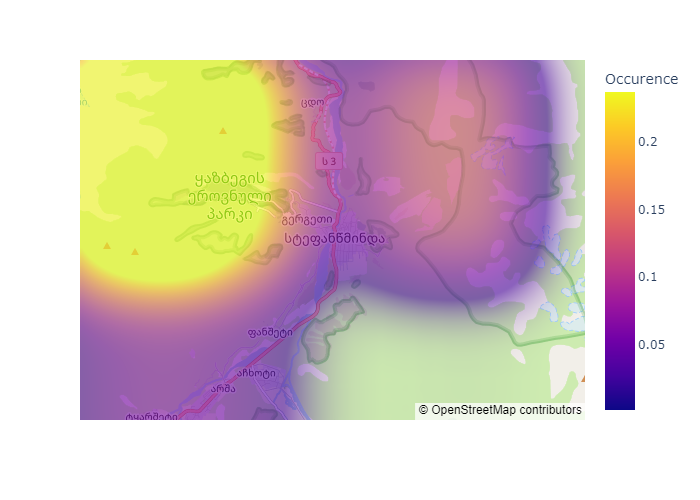
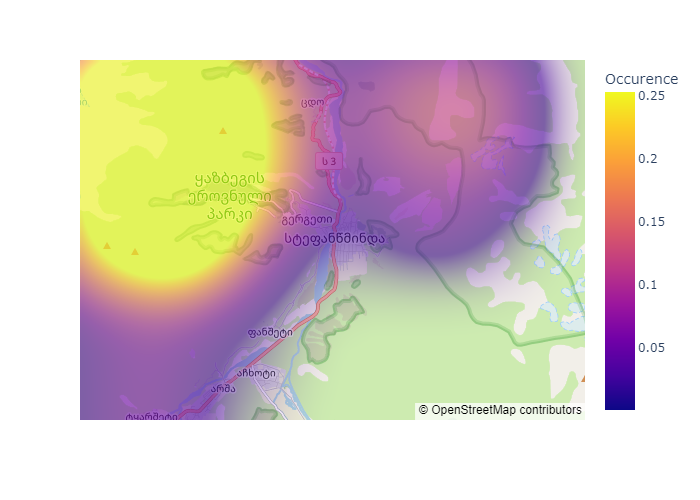
Fix modelling lat error (only minor change to res)

diff --git a/model_occurence.py b/model_occurence.py
@@ -15,33 +15,6 @@ import utils
 
 RANDOM_STATE = 0
 
-# List of species we want a map for
-SPECIES = utils.get_analysis_species()
-
-# Load bird sightings
-df = utils.load_ebird_data(filter=True, region='GE-MM')
-
-# Group by checklist and get main stats
-dfg = df.groupby('SAMPLING EVENT IDENTIFIER')[['LATITUDE', 'LONGITUDE', 'OBSERVATION DATE',
-                                               'TIME OBSERVATIONS STARTED', 'OBSERVER ID',
-                                               'PROTOCOL TYPE', 'PROTOCOL CODE', 'DURATION MINUTES',
-                                               'EFFORT DISTANCE KM', 'NUMBER OBSERVERS',
-                                               'ALL SPECIES REPORTED']].min().reset_index()
-
-# Add column for whether caucasian birds are in the checklist
-for bird in SPECIES:
-    dfg[bird] = dfg['SAMPLING EVENT IDENTIFIER'].apply(
-        lambda x: df.loc[(df['SCIENTIFIC NAME'] == bird) & (df['SAMPLING EVENT IDENTIFIER'] == x)].shape[0]
-    )
-
-# Extra calculated features
-dfg['MONTH'] = dfg['OBSERVATION DATE'].apply(lambda x: int(x[5:7]))
-dfg['HOUR'] = dfg['TIME OBSERVATIONS STARTED'].apply(lambda x: int(x[:2]))
-dfg['KMPH'] = dfg['EFFORT DISTANCE KM'] * 60 / dfg['DURATION MINUTES']
-
-# Round latitude and longitude to 4 decimal places
-dfg['LATITUDE'] = dfg['LATITUDE'].round(4)
-dfg['LONGITUDE'] = dfg['LONGITUDE'].round(4)
 
 # Obtains elevation via API call for entire DataFrame
 def request_elevation_dataframe(df):
@@ -64,55 +37,90 @@ def request_elevation_dataframe(df):
             lat = row['location']['lat']
             lon = row['location']['lng']
             elevation = row['elevation']
-            df.loc[(dfg['LATITUDE']==lat) & (df['LONGITUDE']==lon), 'ELEVATION'] = elevation
+            df.loc[(df['LATITUDE']==lat) & (df['LONGITUDE']==lon), 'ELEVATION'] = elevation
     sleep(1)
     return df
 
-dfg = request_elevation_dataframe(dfg)
 
-# Training columns for models (note: predicted classes are species)
-MODEL_COLS = ['LATITUDE', 'LONGITUDE', 'MONTH', 'HOUR', 'DURATION MINUTES', 'EFFORT DISTANCE KM',
-              'NUMBER OBSERVERS', 'KMPH', 'ELEVATION']
+def run():
+    # List of species we want a map for
+    SPECIES = utils.get_analysis_species()
 
-# Split into train and validation
-dfg_train, dfg_valid = train_test_split(dfg, train_size=0.9, random_state=RANDOM_STATE)
+    # Load bird sightings
+    df = utils.load_ebird_data(filter=True, region='GE-MM')
 
-# Fit models (one per species)
-models = [XGBClassifier().fit(dfg_train[MODEL_COLS], dfg_train[bird]) for bird in SPECIES]
+    # Group by checklist and get main stats
+    dfg = df.groupby('SAMPLING EVENT IDENTIFIER')[['LATITUDE', 'LONGITUDE', 'OBSERVATION DATE',
+                                                'TIME OBSERVATIONS STARTED', 'OBSERVER ID',
+                                                'PROTOCOL TYPE', 'PROTOCOL CODE', 'DURATION MINUTES',
+                                                'EFFORT DISTANCE KM', 'NUMBER OBSERVERS',
+                                                'ALL SPECIES REPORTED']].min().reset_index()
 
-# Calculate F1 score for validation
-for index, bird in enumerate(SPECIES):
-    print(bird, f1_score(dfg_valid[bird], models[index].predict(dfg_valid[MODEL_COLS])))
+    # Add column for whether caucasian birds are in the checklist
+    for bird in SPECIES:
+        dfg[bird] = dfg['SAMPLING EVENT IDENTIFIER'].apply(
+            lambda x: df.loc[(df['SCIENTIFIC NAME'] == bird) & (df['SAMPLING EVENT IDENTIFIER'] == x)].shape[0]
+        )
 
-# Plot partial dependence
-for index, bird in enumerate(SPECIES):
-    fig, ax = plt.subplots(1, 1, figsize=(16,16))
-    PartialDependenceDisplay.from_estimator(models[index], dfg_train[MODEL_COLS], MODEL_COLS, ax=ax, random_state=RANDOM_STATE)
-    plt.suptitle(f'Partial Dependence Plots for {bird}')
-    plt.savefig(f'./fig/{bird.lower().replace(" ", "_")}_partial_dependence_all.png', bbox_inches='tight')
+    # Extra calculated features
+    dfg['MONTH'] = dfg['OBSERVATION DATE'].apply(lambda x: int(x[5:7]))
+    dfg['HOUR'] = dfg['TIME OBSERVATIONS STARTED'].apply(lambda x: int(x[:2]))
+    dfg['KMPH'] = dfg['EFFORT DISTANCE KM'] * 60 / dfg['DURATION MINUTES']
 
-# Create coordinate range DataFrame (for predictions)
-lat_range = np.arange(42.60, 42.70, 0.01)
-lon_range = np.arange(44.55, 44.70, 0.01)
-coord_range = []
-for i in lat_range:
-    for j in lon_range:
-        coord_range.append((i, j))
-dfm = pd.DataFrame(coord_range, columns=['LATITUDE', 'LONGITUDE'])
+    # Round latitude and longitude to 4 decimal places
+    dfg['LATITUDE'] = dfg['LATITUDE'].round(4)
+    dfg['LONGITUDE'] = dfg['LONGITUDE'].round(4)
 
-# Add in dummy values
-dfm['MONTH'] = 7
-dfm['HOUR'] = 7
-dfm['DURATION MINUTES'] = 120
-dfm['EFFORT DISTANCE KM'] = 2
-dfm['NUMBER OBSERVERS'] = 1
-dfm['KMPH'] = dfm['EFFORT DISTANCE KM'] * 60 / dfm['DURATION MINUTES']
-dfm = request_elevation_dataframe(dfm)
+    # Get elevation via API
+    dfg = request_elevation_dataframe(dfg)
 
-# Predict occurence and plot on map
-for index, bird in enumerate(SPECIES):
-    dfm['Occurence'] = models[index].predict_proba(dfm[MODEL_COLS])[:,1]
-    fig = px.density_mapbox(dfm, lat='LATITUDE', lon='LONGITUDE', z='Occurence', radius=100,
-                            center=dict(lat=42.6571, lon=44.6401), zoom=11, opacity=0.6,
-                            mapbox_style="open-street-map")
-    fig.write_image(f'./fig/{bird.lower().replace(" ", "_")}_modelled_map.png')
+    # Training columns for models (note: predicted classes are species)
+    MODEL_COLS = ['LATITUDE', 'LONGITUDE', 'MONTH', 'HOUR', 'DURATION MINUTES', 'EFFORT DISTANCE KM',
+                'NUMBER OBSERVERS', 'KMPH', 'ELEVATION']
+
+    # Split into train and validation
+    dfg_train, dfg_valid = train_test_split(dfg, train_size=0.9, random_state=RANDOM_STATE)
+
+    # Fit models (one per species)
+    models = [XGBClassifier().fit(dfg_train[MODEL_COLS], dfg_train[bird]) for bird in SPECIES]
+
+    # Calculate F1 score for validation
+    for index, bird in enumerate(SPECIES):
+        print(bird, f1_score(dfg_valid[bird], models[index].predict(dfg_valid[MODEL_COLS])))
+
+    # Plot partial dependence
+    for index, bird in enumerate(SPECIES):
+        fig, ax = plt.subplots(1, 1, figsize=(16,16))
+        PartialDependenceDisplay.from_estimator(models[index], dfg_train[MODEL_COLS], MODEL_COLS, ax=ax, random_state=RANDOM_STATE)
+        plt.suptitle(f'Partial Dependence Plots for {bird}')
+        plt.savefig(f'./fig/{bird.lower().replace(" ", "_")}_partial_dependence_all.png', bbox_inches='tight')
+
+    # Create coordinate range DataFrame (for predictions)
+    lat_range = np.arange(42.60, 42.70, 0.01)
+    lon_range = np.arange(44.55, 44.70, 0.01)
+    coord_range = []
+    for i in lat_range:
+        for j in lon_range:
+            coord_range.append((i, j))
+    dfm = pd.DataFrame(coord_range, columns=['LATITUDE', 'LONGITUDE'])
+
+    # Add in dummy values
+    dfm['MONTH'] = 7
+    dfm['HOUR'] = 7
+    dfm['DURATION MINUTES'] = 120
+    dfm['EFFORT DISTANCE KM'] = 2
+    dfm['NUMBER OBSERVERS'] = 1
+    dfm['KMPH'] = dfm['EFFORT DISTANCE KM'] * 60 / dfm['DURATION MINUTES']
+    dfm = request_elevation_dataframe(dfm)
+
+    # Predict occurence and plot on map
+    for index, bird in enumerate(SPECIES):
+        dfm['Occurence'] = models[index].predict_proba(dfm[MODEL_COLS])[:,1]
+        fig = px.density_mapbox(dfm, lat='LATITUDE', lon='LONGITUDE', z='Occurence', radius=100,
+                                center=dict(lat=42.6571, lon=44.6401), zoom=11, opacity=0.6,
+                                mapbox_style="open-street-map")
+        fig.write_image(f'./fig/{bird.lower().replace(" ", "_")}_modelled_map.png')
+
+
+if __name__ == '__main__':
+    run()
